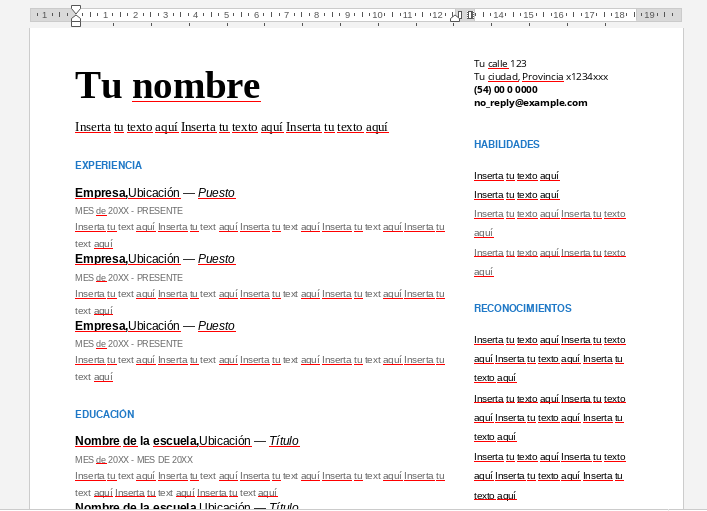
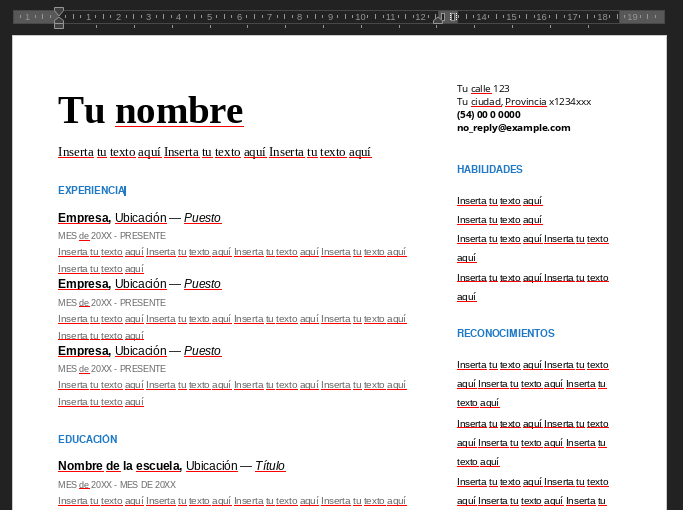
Fix: paragraph grey colors when no required

diff --git a/demos/cv.dart b/demos/cv.dart
@@ -239,11 +239,9 @@ Future<void> main() async {
                       'Inserta tu texto aquí ',
                   styles: <Object>[
                     StyleBuilder.singularC()
-                        .fontSize(9.ptToHalfPoints())
-                        .runColor(Color.rgb(
-                          0x666666,
-                          0.5.toAlphaUnit(),
-                        ))
+                        .fontSize(
+                          9.ptToHalfPoints(),
+                        )
                         .build(),
                   ],
                 ),
@@ -253,11 +251,9 @@ Future<void> main() async {
                       'Inserta tu texto aquí ',
                   styles: <Object>[
                     StyleBuilder.singularC()
-                        .fontSize(9.ptToHalfPoints())
-                        .runColor(Color.rgb(
-                          0x666666,
-                          0.5.toAlphaUnit(),
-                        ))
+                        .fontSize(
+                          9.ptToHalfPoints(),
+                        )
                         .build(),
                   ],
                 ),
@@ -311,6 +307,9 @@ Future<void> main() async {
               date: '',
               content: 'Inserta tu texto aquí '
                   'Inserta tu texto aquí ',
+              contentStyle: StyleBuilder.singularC()
+                .fontSize(9.ptToHalfPoints())
+                .build(),
               repeat: 1,
             ),
           ],
@@ -345,6 +344,7 @@ List<DocxTreeNode> getRepeatedSection({
   String subtitle1 = '',
   String subtitle2 = '',
   String subtitle3 = '',
+  Style? contentStyle,
 }) {
   return <DocxTreeNode<dynamic>>[
     Paragraph.text(
@@ -412,7 +412,7 @@ List<DocxTreeNode> getRepeatedSection({
         TextRun.text(
           text: content,
           styles: <Object>[
-            StyleBuilder.singularC()
+            contentStyle ?? StyleBuilder.singularC()
                 .fontSize(9.ptToHalfPoints())
                 .runColor(Color.rgb(
                   0x666666,
